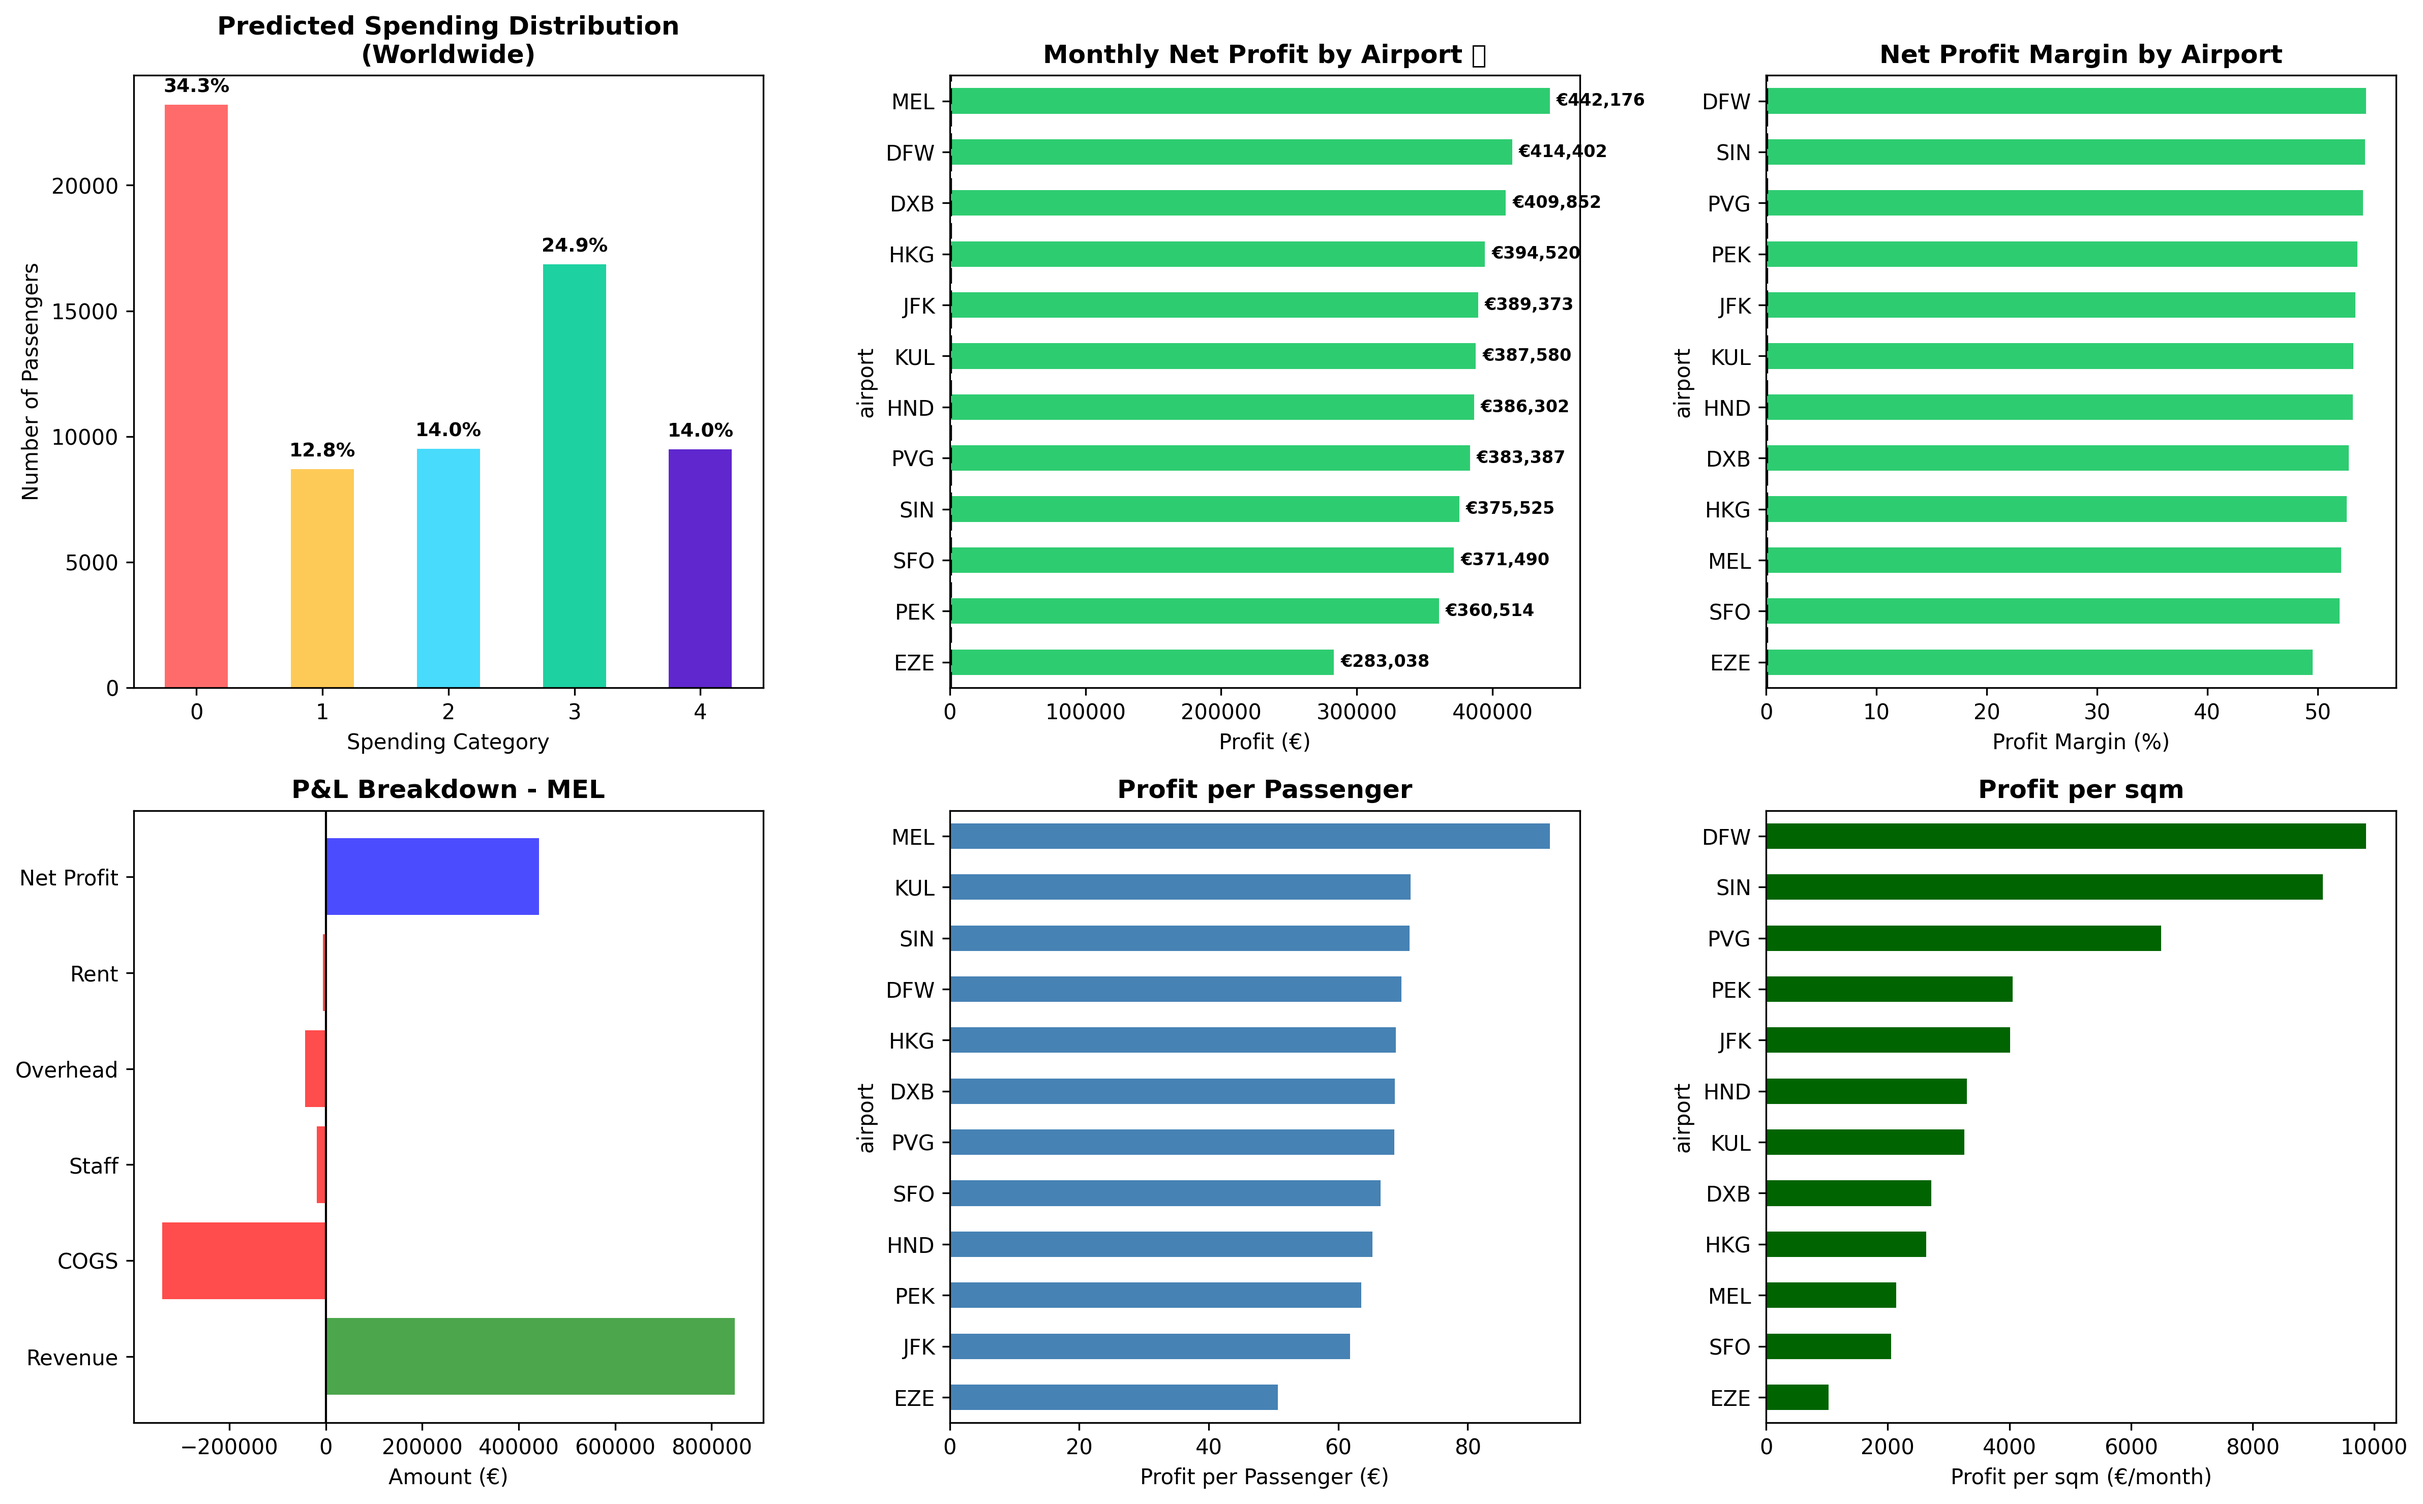
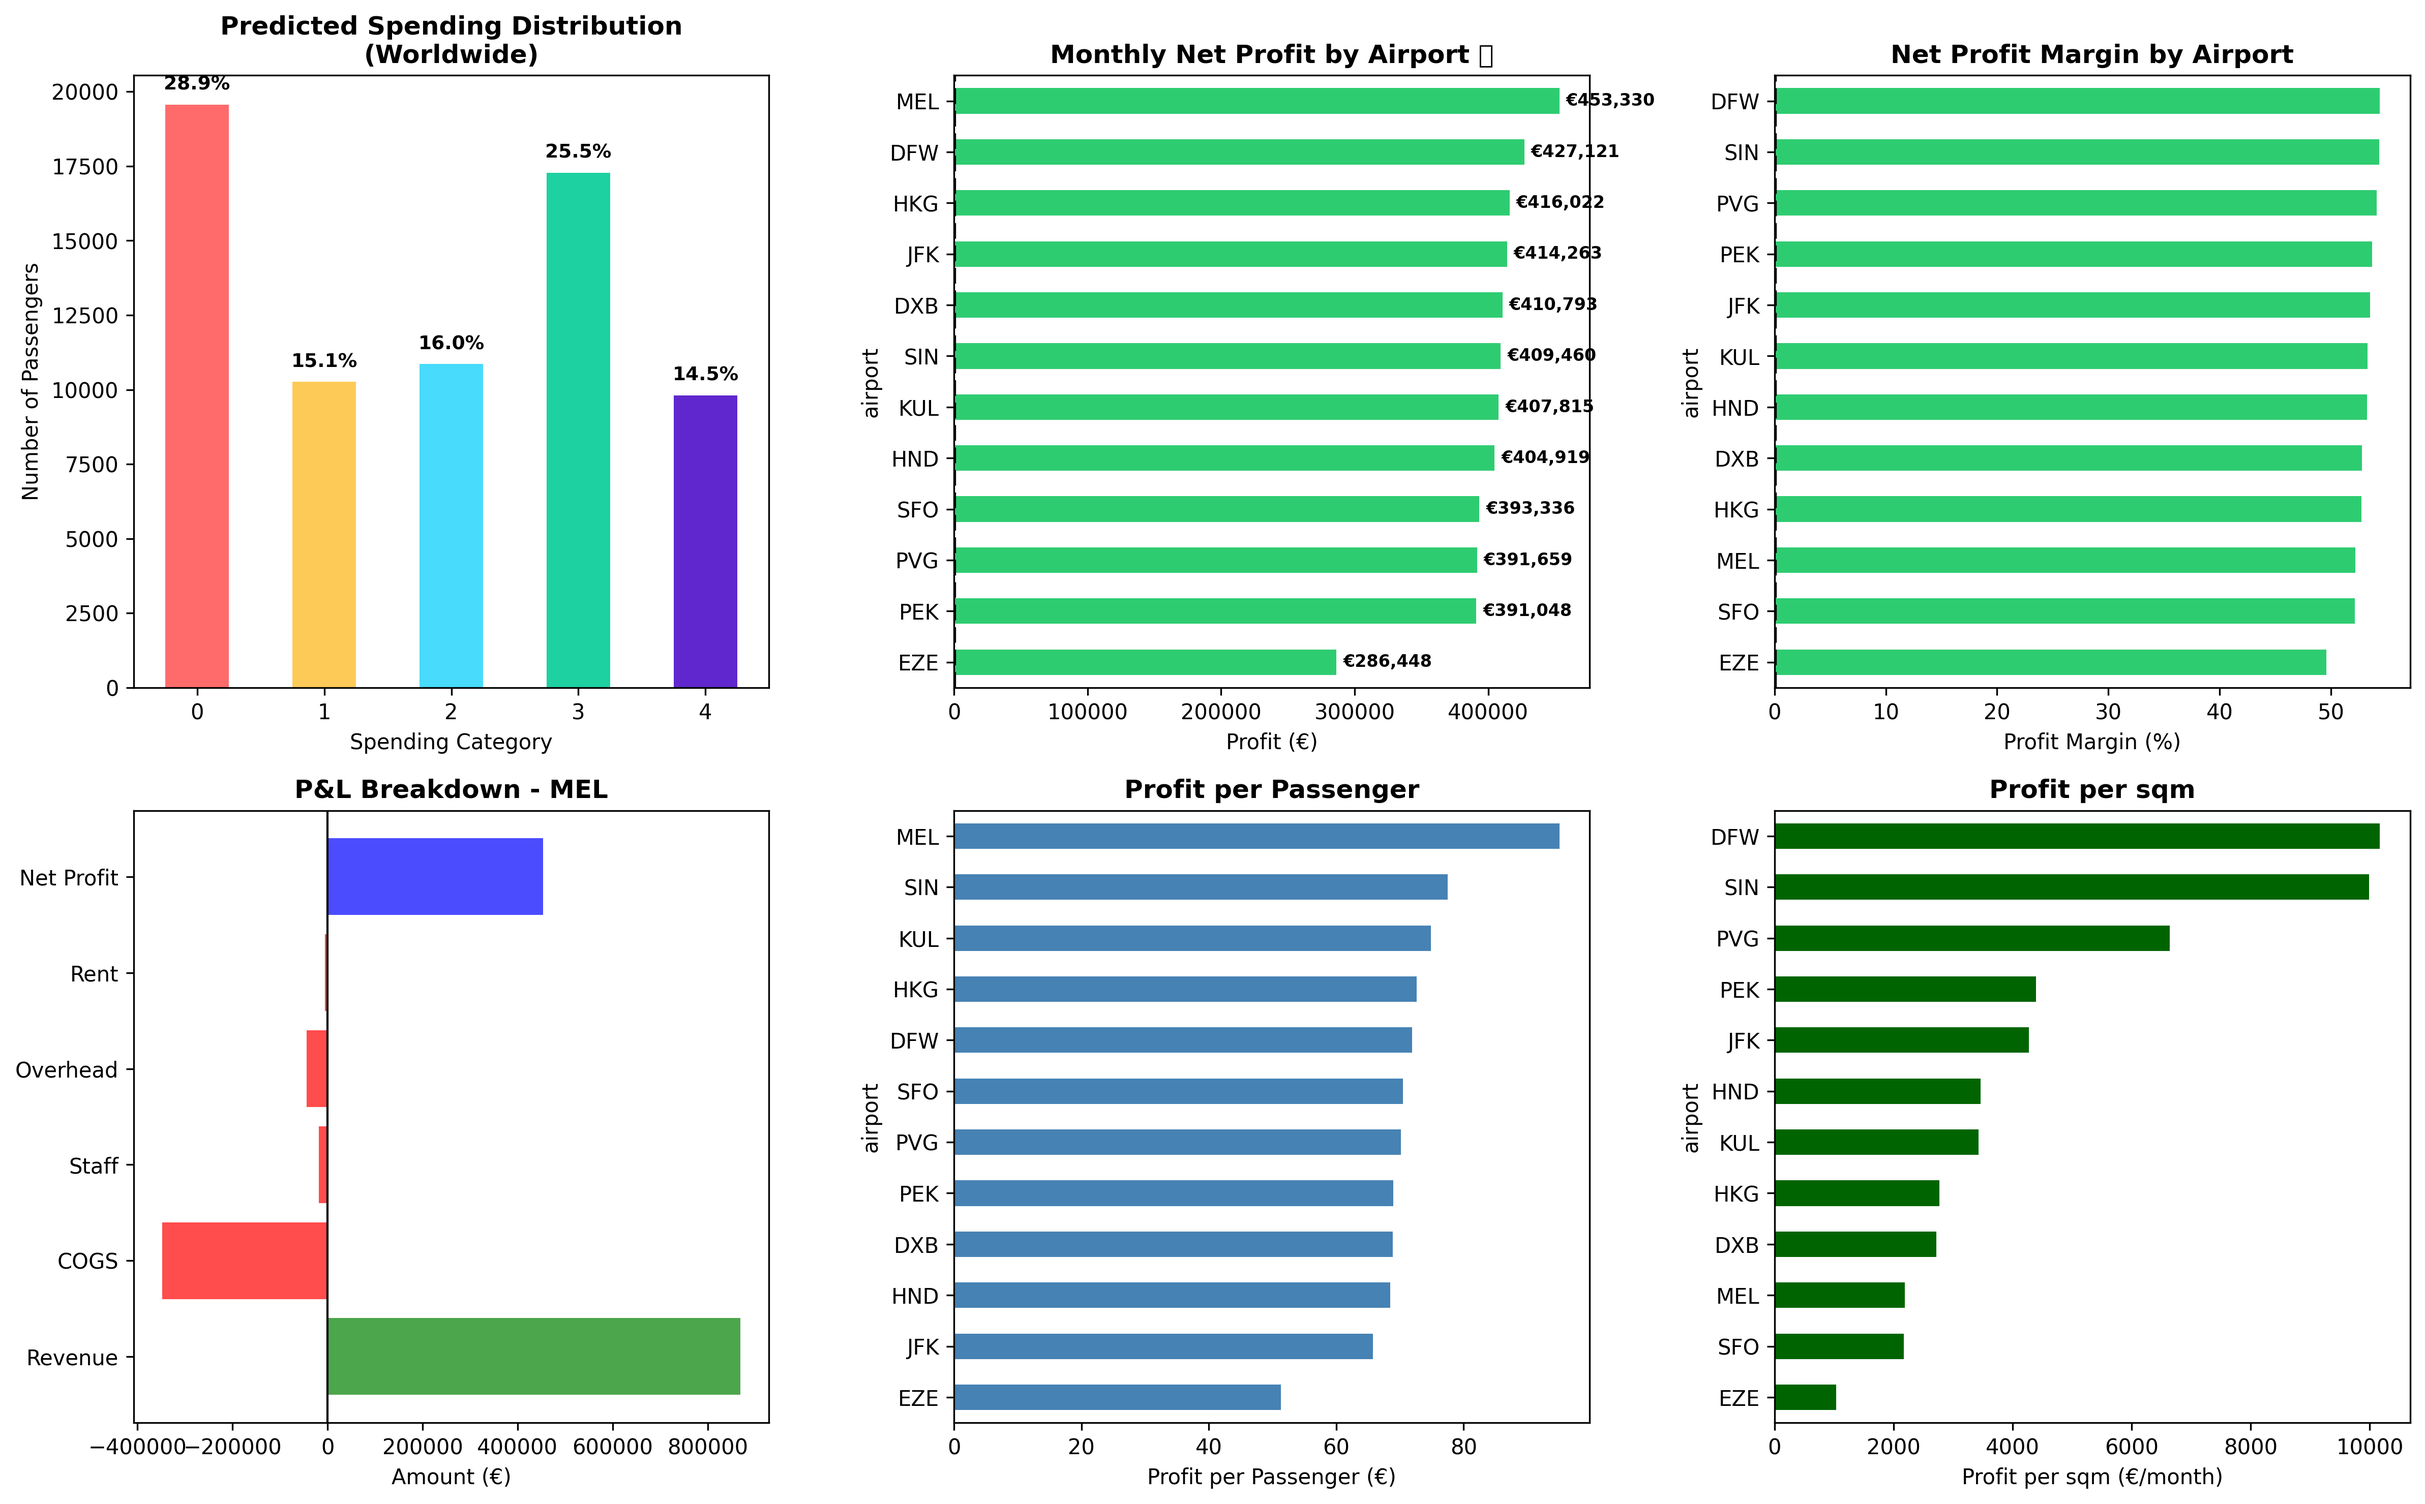
update

diff --git a/3_prediction_analysis.py b/3_prediction_analysis.py
@@ -25,7 +25,7 @@ def load_model_and_data():
         print(f"  Test accuracy: {model_data['metrics']['test_accuracy']:.4f}")
     except Exception as e:
         print(f"✗ Error loading model: {str(e)}")
-        return None, None, None, None
+        return None, None, None, None, None
 
     df_ww = load_csv_with_info(WW_CLEAN_FILE, "WW Passengers (Clean)")
 
@@ -33,6 +33,7 @@ def load_model_and_data():
         model_data["model"],
         model_data["feature_cols"],
         model_data.get("feature_selector"),
+        model_data.get("candidate_features", model_data["feature_cols"]),  # NEW!
         df_ww,
     )
 
@@ -42,35 +43,34 @@ def load_model_and_data():
 # ============================================================================
 
 
-def predict_worldwide_spending(df_ww, model, feature_cols, selector=None):
+def predict_worldwide_spending(
+    df_ww, model, feature_cols, selector=None, candidate_features=None
+):
     """Predict spending categories for worldwide passengers"""
     print_section_header("PREDICTING WORLDWIDE SPENDING")
 
     print("Preparing features for prediction...")
 
+    # Use provided candidate_features or fall back to feature_cols
+    if candidate_features is None:
+        candidate_features = feature_cols
+
+    # Verify all features exist in df_ww
+    missing_features = [f for f in candidate_features if f not in df_ww.columns]
+    if missing_features:
+        print(f"\n⚠  Warning: Missing {len(missing_features)} features in WW dataset:")
+        for f in missing_features[:10]:
+            print(f"    - {f}")
+        if len(missing_features) > 10:
+            print(f"    ... and {len(missing_features) - 10} more")
+        print("\n✗ Cannot proceed without all required features.")
+        print("   Please re-run preprocessing to generate these features.")
+        return None
+
     # If we have a feature selector, apply it
     if selector:
-        all_candidate_features = [
-            "age_scaled",
-            "luggage_weight_kg_scaled",
-            "total_flighttime_scaled",
-            "total_traveltime_scaled",
-            "layover_time_scaled",
-            "layover_ratio_log_scaled",
-            "is_male",
-            "is_business",
-            "has_family",
-            "has_connection",
-            "is_long_haul",
-            "layover_category",
-            "shopped_at_encoded",
-            "departure_IATA_1_encoded",
-            "destination_IATA_1_encoded",
-            "departure_IATA_2_encoded",
-            "destination_IATA_2_encoded",
-        ]
-        X_ww = df_ww[all_candidate_features].fillna(0).values
-        X_ww_selected, _ = selector.transform(X_ww, all_candidate_features)
+        X_ww = df_ww[candidate_features].fillna(0).values
+        X_ww_selected, _ = selector.transform(X_ww, candidate_features)
     else:
         X_ww_selected = df_ww[feature_cols].fillna(0).values
 
@@ -672,7 +672,7 @@ def main():
 
     # Step 1: Load model and data
     print("\n[1/7] Loading model and data...")
-    model, feature_cols, selector, df_ww = load_model_and_data()
+    model, feature_cols, selector, candidate_features, df_ww = load_model_and_data()
 
     if model is None:
         print("✗ Cannot proceed without trained model")
@@ -680,7 +680,13 @@ def main():
 
     # Step 2: Predict worldwide spending
     print("\n[2/7] Predicting worldwide spending...")
-    df_ww_predictions = predict_worldwide_spending(df_ww, model, feature_cols, selector)
+    df_ww_predictions = predict_worldwide_spending(
+        df_ww, model, feature_cols, selector, candidate_features
+    )
+
+    if df_ww_predictions is None:
+        print("✗ Prediction failed - missing features in WW dataset")
+        return None
 
     # Step 3: Calculate revenue
     print("\n[3/7] Calculating revenue by airport...")

diff --git a/2_model_training.py b/2_model_training.py
@@ -39,7 +39,7 @@ class FeatureSelector:
     Feature selector that prevents data leakage by fitting only on training data
     """
 
-    def __init__(self, variance_threshold=0.01, correlation_threshold=0.95):
+    def __init__(self, variance_threshold=0.005, correlation_threshold=0.98):
         self.variance_threshold = variance_threshold
         self.correlation_threshold = correlation_threshold
         self.variance_selector = None
@@ -383,41 +383,56 @@ def evaluate_model(
 # ============================================================================
 
 
+# In main() function, save candidate_features to model_data
+
+
 def main():
     """Main training pipeline with NO data leakage"""
     print("=" * 80)
-    print("DELOITTE CASE STUDY - MODEL TRAINING (FIXED - NO LEAKAGE)")
+    print("DELOITTE CASE STUDY - MODEL TRAINING (ENHANCED)")
     print("=" * 80)
 
     # 1. Load data
     print("\n[1/4] Loading preprocessed data...")
     df_eu = load_csv_with_info(EU_CLEAN_FILE, "EU Passengers (Clean)")
 
-    # 2. Define candidate features
+    # 2. Define candidate features - ENHANCED
     print("\n[2/4] Defining candidate features...")
     all_features = [
+        # Scaled numerical features
         "age_scaled",
         "luggage_weight_kg_scaled",
         "total_flighttime_scaled",
         "total_traveltime_scaled",
         "layover_time_scaled",
         "layover_ratio_log_scaled",
+        # Binary features
         "is_male",
         "is_business",
         "has_family",
-        "has_connection",
         "is_long_haul",
+        # Categorical features
         "layover_category",
+        "flight_time_category",
+        "age_group",
+        # Encoded airport features
         "shopped_at_encoded",
         "departure_IATA_1_encoded",
         "destination_IATA_1_encoded",
         "departure_IATA_2_encoded",
         "destination_IATA_2_encoded",
+        # NEW: Interaction features
+        "business_longhaul",
+        "age_business",
+        "family_luggage",
+        "layover_shopping_time",
+        "male_business",
     ]
+
     candidate_features = [f for f in all_features if f in df_eu.columns]
     print(f"\nCandidate features: {len(candidate_features)}")
 
-    # 3. Train model (feature selection happens inside, on training data only)
+    # 3. Train model
     print("\n[3/4] Training XGBoost with proper data handling...")
     xgb_pipeline, xgb_metrics, selected_features, selector = train_xgboost_no_leakage(
         df_eu, candidate_features
@@ -432,7 +447,7 @@ def main():
         "feature_selector": selector,
         "model_type": "XGBoost with SMOTE (No Leakage)",
         "feature_cols": selected_features,
-        "candidate_features": candidate_features,
+        "candidate_features": candidate_features,  # SAVE THIS!
         "metrics": xgb_metrics,
         "trained_date": pd.Timestamp.now().strftime("%Y-%m-%d %H:%M:%S"),
     }
@@ -453,12 +468,11 @@ def main():
     print(
         f"✓ Overfitting:         {xgb_metrics['train_accuracy'] - xgb_metrics['test_accuracy']:.4f}"
     )
-    print(f"\n⚠  NOTE: Feature selection now done on training data only")
-    print(f"   This may result in slightly lower accuracy, but is more realistic!")
 
     return {
         "pipeline": xgb_pipeline,
         "selected_features": selected_features,
+        "candidate_features": candidate_features,  # Return this too
         "metrics": xgb_metrics,
         "selector": selector,
     }

diff --git a/1_data_preprocessing.py b/1_data_preprocessing.py
@@ -125,28 +125,74 @@ def engineer_advanced_features(df):
 
     df = df.copy()
 
-    # 1. Travel complexity score
-    # df["travel_complexity"] = (
-    #     df["has_connection"] * 2
-    #     + (df["layover_time"] > 0).astype(int)
-    #     + (df["luggage_weight_kg"] > 20).astype(int)
-    # )
-    # print("  ✓ Created: travel_complexity")
-
-    # 2. Long-haul flight indicator
+    # 1. Long-haul flight indicator
     df["is_long_haul"] = (df["total_flighttime"] > 360).astype(int)
     print("  ✓ Created: is_long_haul")
 
-    # 3. Layover ratio (safer calculation with epsilon)
+    # 2. Layover ratio (safer calculation with epsilon)
     df["layover_ratio"] = df["layover_time"] / (df["total_traveltime"] + 1)
     df["layover_ratio_log"] = np.log1p(df["layover_ratio"])
     print("  ✓ Created: layover_ratio, layover_ratio_log")
 
-    # 4. Layover category (ordinal)
+    # 3. Layover category (ordinal) - FIXED: handle NaN
     df["layover_category"] = pd.cut(
-        df["layover_time"], bins=LAYOVER_BINS, labels=range(len(LAYOVER_LABELS))
-    ).astype(int)
+        df["layover_time"],
+        bins=LAYOVER_BINS,
+        labels=range(len(LAYOVER_LABELS)),
+        include_lowest=True,
+    )
+    # Fill any NaN values before converting to int
+    df["layover_category"] = df["layover_category"].fillna(0).astype(int)
     print("  ✓ Created: layover_category (ordinal)")
+
+    # 4. NEW: Critical interaction features
+    # Business travelers with long flights spend more
+    df["business_longhaul"] = df["is_business"] * df["is_long_haul"]
+
+    # Age-business interaction (older business travelers spend more)
+    df["age_business"] = df["age"] * df["is_business"]
+
+    # Family travel with luggage (families with heavy luggage shop more)
+    df["family_luggage"] = df["has_family"] * df["luggage_weight_kg"]
+
+    # Layover shopping opportunity (long layovers = more shopping time)
+    df["layover_shopping_time"] = df["layover_time"] * (df["layover_time"] > 60).astype(
+        int
+    )
+
+    # Gender-business interaction
+    df["male_business"] = df["is_male"] * df["is_business"]
+
+    print("  ✓ Created: business_longhaul, age_business, family_luggage")
+    print("  ✓ Created: layover_shopping_time, male_business")
+
+    # 5. Flight time bins (categorical spending patterns) - FIXED: handle NaN
+    df["flight_time_category"] = pd.cut(
+        df["total_flighttime"],
+        bins=[0, 180, 360, 600, 2000],
+        labels=[0, 1, 2, 3],
+        include_lowest=True,
+    )
+    # Fill any NaN values before converting to int
+    df["flight_time_category"] = df["flight_time_category"].fillna(1).astype(int)
+    print("  ✓ Created: flight_time_category")
+
+    # 6. Age groups (spending patterns vary by age) - FIXED: handle NaN
+    df["age_group"] = pd.cut(
+        df["age"],
+        bins=[0, 25, 35, 50, 65, 100],
+        labels=[0, 1, 2, 3, 4],
+        include_lowest=True,
+    )
+    # Fill any NaN values before converting to int (use median age group = 2)
+    df["age_group"] = df["age_group"].fillna(2).astype(int)
+    print("  ✓ Created: age_group")
+
+    # 7. Polynomial features for key numerical variables
+    df["age_squared"] = df["age"] ** 2
+    df["luggage_squared"] = df["luggage_weight_kg"] ** 2
+    df["flighttime_log"] = np.log1p(df["total_flighttime"])
+    print("  ✓ Created: age_squared, luggage_squared, flighttime_log")
 
     return df
 

diff --git a/config.py b/config.py
@@ -101,21 +101,27 @@ ENABLE_HYPERPARAMETER_TUNING = False
 
 # XGBoost optimal parameters
 OPTIMAL_XGBOOST_PARAMS = {
-    # Tuned parameters
-    "n_estimators": 426,
-    "max_depth": 8,
-    "learning_rate": 0.2040,
-    "subsample": 0.9895,
-    "colsample_bytree": 0.9743,
-    "gamma": 0.3927,
-    "reg_alpha": 0.3723,
-    "reg_lambda": 1.8803,
-    # Base parameters
+    # Tree structure
+    "n_estimators": 500,  # Increased from 426
+    "max_depth": 7,  # Slightly reduced for less overfitting
+    "learning_rate": 0.1,  # Reduced from 0.204 for better generalization
+    # Sampling
+    "subsample": 0.9,  # Slightly reduced
+    "colsample_bytree": 0.9,  # Slightly reduced
+    "colsample_bylevel": 0.9,  # NEW: Additional regularization
+    # Regularization
+    "gamma": 0.5,  # Increased from 0.3927
+    "reg_alpha": 0.5,  # Increased from 0.3723
+    "reg_lambda": 2.0,  # Increased from 1.8803
+    "min_child_weight": 3,  # NEW: Prevent overfitting
+    # Performance
     "objective": "multi:softprob",
     "eval_metric": "mlogloss",
     "random_state": RANDOM_STATE,
     "n_jobs": -1,
     "verbosity": 0,
+    "tree_method": "hist",  # NEW: Faster training
+    "max_bin": 256,  # NEW: More granular splits
 }
 
 # XGBoost base parameters (for when tuning is enabled)
@@ -129,9 +135,9 @@ XGBOOST_BASE_PARAMS = {
 
 # Feature selection parameters
 FEATURE_SELECTION_PARAMS = {
-    "correlation_threshold": 0.95,  # For multicollinearity check
-    "variance_threshold": 0.01,  # Minimum variance for feature
-    "importance_threshold": 0.0005,  # Minimum feature importance (not used in new version)
+    "correlation_threshold": 0.98,  # For multicollinearity check
+    "variance_threshold": 0.005,  # Minimum variance for feature
+    "importance_threshold": 0.0001,  # Minimum feature importance (not used in new version)
 }
 
 # ============================================================================
